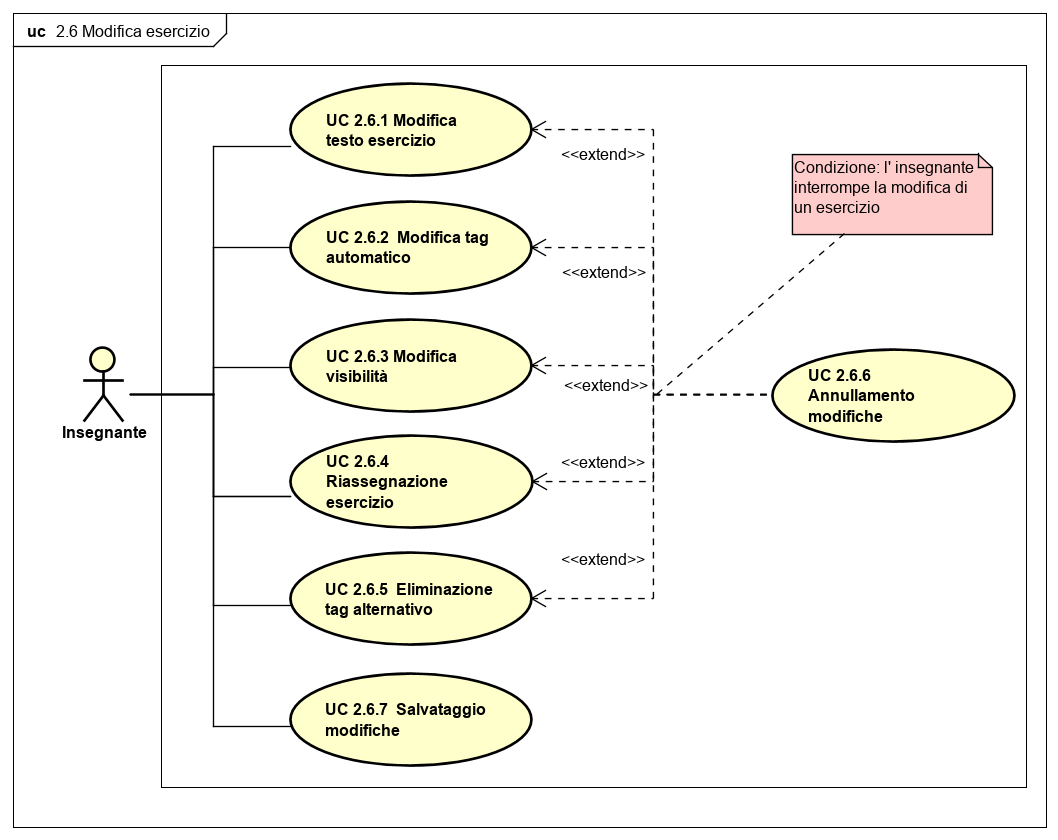
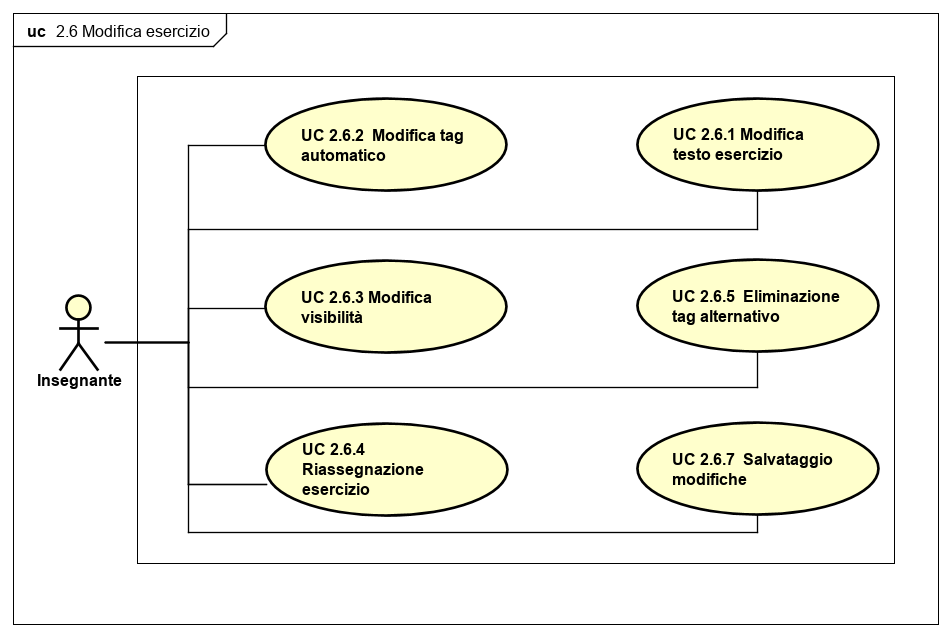
sistemati primi UC

Changed region(s): [[0.0, 0.0, 1.0, 0.9828], [0.6702, 0.1489, 0.9443, 0.3574]]

diff --git a/RQ/Analisi_dei_requisiti/sez/Insegnante.tex b/RQ/Analisi_dei_requisiti/sez/Insegnante.tex
@@ -6,6 +6,14 @@
 \caption{Panoramica insegnante}
 \end{figure}
 
+\begin{figure}[H]
+\centering
+\includegraphics[width=17cm, keepaspectratio]{img/PanoramicaInsegnanticonext.png} 
+\caption{Panoramica insegnante con estensioni}
+\end{figure}
+
+
+
 \subsubsection{UC 2.1 - Visualizzazione della dashboard}
 \begin{itemize}
 	\item[•] \textbf{Attori}: Insegnante;
